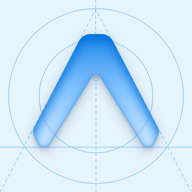
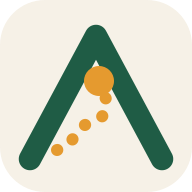
feat(panel): identidad Arriero en el panel, la web del conductor y el seguimiento
Tema con la paleta de marca (neblina, cafetal, carriel, terracota) y
Bricolage Grotesque en títulos; logo en encabezado, logins, web del
conductor y seguimiento (Arriero Despacho / Conductor / Seguimiento).
Mapas con colores de marca y sendero punteado en ámbar. Estados ok/warn/
idle oscurecidos para que el texto blanco cumpla AA. Favicon, íconos PWA,
manifest y metadatos con la marca.

diff --git a/apps/panel/src/components/MapView.tsx b/apps/panel/src/components/MapView.tsx
@@ -8,8 +8,9 @@ import { MapProblem } from './MapProblem';
 
 const STYLE_URL = process.env.NEXT_PUBLIC_MAP_STYLE_URL || 'https://tiles.openfreemap.org/styles/liberty';
 
-const STATUS_COLOR = { available: '#16a34a', busy: '#ea580c', offline: '#9ca3af' } as const;
-const REQUEST_COLOR = { created: '#dc2626', offered: '#d97706', assigned: '#2563eb', picked_up: '#7c3aed' } as const;
+// Colores de marca (docs/MARCA.md); los de estado coinciden con el tema del panel.
+const STATUS_COLOR = { available: '#23824A', busy: '#B8611A', offline: '#6F7873' } as const;
+const REQUEST_COLOR = { created: '#C0392B', offered: '#E59A2F', assigned: '#1F5C45', picked_up: '#9A4421' } as const;
 
 interface Props {
   city: Zone | null;
@@ -34,11 +35,11 @@ function driverPin(d: DriverRow, selected = false): HTMLElement {
   const el = document.createElement('div');
   const size = selected ? 40 : 30;
   el.style.cssText = `width:${size}px;height:${size}px;border-radius:50%;background:#fff;border:3px solid ${STATUS_COLOR[d.status]};
-    outline:${selected ? '3px solid #1d4ed8' : 'none'};outline-offset:2px;z-index:${selected ? 10 : 1};
+    outline:${selected ? '3px solid #E59A2F' : 'none'};outline-offset:2px;z-index:${selected ? 10 : 1};
     display:flex;align-items:center;justify-content:center;font-size:15px;cursor:pointer;box-shadow:0 1px 4px rgba(0,0,0,.3);
     position:relative;opacity:${d.is_stale ? 0.45 : 1}`;
   el.innerHTML = `${VEHICLE_ICON[d.vehicle]}${
-    d.is_stale ? '<span style="position:absolute;top:-6px;right:-6px;background:#ea580c;color:#fff;border-radius:8px;font-size:9px;padding:0 3px">!</span>' : ''
+    d.is_stale ? '<span style="position:absolute;top:-6px;right:-6px;background:#B8611A;color:#fff;border-radius:8px;font-size:9px;padding:0 3px">!</span>' : ''
   }`;
   el.title = `${d.display_name} · ${DRIVER_STATUS_LABEL[d.status]}${d.is_stale ? ' · desactualizado' : ''}`;
   return el;
@@ -52,15 +53,15 @@ function sectorBubble(drivers: DriverRow[], sectorName: string, selected = false
     .map((s) => `<span style="display:inline-flex;align-items:center;gap:2px"><i style="width:8px;height:8px;border-radius:50%;background:${STATUS_COLOR[s]};display:inline-block"></i>${count(s)}</span>`)
     .join(' ');
   const stale = drivers.filter((d) => d.is_stale).length;
-  el.style.cssText = `background:${selected ? '#dbeafe' : '#fff'};border:${selected ? '2px solid #1d4ed8' : '1px solid #d4d4d8'};border-radius:14px;padding:3px 8px;font:600 11px system-ui;
+  el.style.cssText = `background:${selected ? '#FBEBD0' : '#fff'};border:${selected ? '2px solid #E59A2F' : '1px solid #E3DBCB'};border-radius:14px;padding:3px 8px;font:600 11px system-ui;
     display:flex;gap:6px;align-items:center;cursor:pointer;box-shadow:0 1px 4px rgba(0,0,0,.25);white-space:nowrap`;
-  el.innerHTML = `<span style="color:#52525b">${esc(sectorName)}</span>${dots}${stale ? `<span style="color:#ea580c">⚠${stale}</span>` : ''}`;
+  el.innerHTML = `<span style="color:#5B6660">${esc(sectorName)}</span>${dots}${stale ? `<span style="color:#B8611A">⚠${stale}</span>` : ''}`;
   el.title = drivers.map((d) => `${d.display_name} (${DRIVER_STATUS_LABEL[d.status]}${d.is_stale ? ', desactualizado' : ''})`).join('\n');
   return el;
 }
 
 function requestPin(r: RequestRow, selected: boolean): HTMLElement {
-  const color = REQUEST_COLOR[r.status as keyof typeof REQUEST_COLOR] ?? '#52525b';
+  const color = REQUEST_COLOR[r.status as keyof typeof REQUEST_COLOR] ?? '#5B6660';
   const el = document.createElement('div');
   el.style.cssText = `width:${selected ? 22 : 16}px;height:${selected ? 22 : 16}px;background:${color};border:2px solid #fff;
     border-radius:50% 50% 50% 0;transform:rotate(-45deg);cursor:pointer;box-shadow:0 1px 4px rgba(0,0,0,.4)`;
@@ -113,11 +114,11 @@ export function MapView({
       m.on('click', (e) => clickRef.current?.({ lng: e.lngLat.lng, lat: e.lngLat.lat }));
       m.on('load', () => {
         m.addSource('sectors', { type: 'geojson', data: { type: 'FeatureCollection', features: [] } });
-        m.addLayer({ id: 'sectors-fill', type: 'fill', source: 'sectors', paint: { 'fill-color': '#1d4ed8', 'fill-opacity': 0.05 } });
-        m.addLayer({ id: 'sectors-line', type: 'line', source: 'sectors', paint: { 'line-color': '#1d4ed8', 'line-opacity': 0.4, 'line-width': 1 } });
+        m.addLayer({ id: 'sectors-fill', type: 'fill', source: 'sectors', paint: { 'fill-color': '#1F5C45', 'fill-opacity': 0.06 } });
+        m.addLayer({ id: 'sectors-line', type: 'line', source: 'sectors', paint: { 'line-color': '#1F5C45', 'line-opacity': 0.45, 'line-width': 1.2 } });
         m.addSource('draft', { type: 'geojson', data: { type: 'FeatureCollection', features: [] } });
-        m.addLayer({ id: 'draft-line', type: 'line', source: 'draft', paint: { 'line-color': '#ea580c', 'line-width': 2, 'line-dasharray': [2, 1] } });
-        m.addLayer({ id: 'draft-pts', type: 'circle', source: 'draft', paint: { 'circle-radius': 4, 'circle-color': '#ea580c' } });
+        m.addLayer({ id: 'draft-line', type: 'line', source: 'draft', paint: { 'line-color': '#E59A2F', 'line-width': 2.5, 'line-dasharray': [2, 1] } });
+        m.addLayer({ id: 'draft-pts', type: 'circle', source: 'draft', paint: { 'circle-radius': 4, 'circle-color': '#E59A2F' } });
         setReady(true);
       });
       unwatch = watchMap(m, (p) => setProblem((cur) => cur ?? p));

diff --git a/apps/panel/src/components/TrackingMap.tsx b/apps/panel/src/components/TrackingMap.tsx
@@ -19,8 +19,8 @@ function pin(label: string, color: string): HTMLElement {
 
 function driverEl(icon: string): HTMLElement {
   const el = document.createElement('div');
-  el.style.cssText = `width:40px;height:40px;border-radius:50%;background:#fff;border:3px solid #1d4ed8;font-size:20px;
-    display:flex;align-items:center;justify-content:center;box-shadow:0 2px 8px rgba(29,78,216,.45)`;
+  el.style.cssText = `width:40px;height:40px;border-radius:50%;background:#fff;border:3px solid #1F5C45;font-size:20px;
+    display:flex;align-items:center;justify-content:center;box-shadow:0 2px 10px rgba(15,46,35,.4)`;
   el.textContent = icon;
   return el;
 }
@@ -62,7 +62,14 @@ export function TrackingMap({
       const m = new ml.Map({ container: container.current, style: STYLE_URL, center: [start.lng, start.lat], zoom: 14, attributionControl: { compact: true } });
       m.on('load', () => {
         m.addSource('route', { type: 'geojson', data: { type: 'FeatureCollection', features: [] } });
-        m.addLayer({ id: 'route', type: 'line', source: 'route', paint: { 'line-color': '#1d4ed8', 'line-width': 3, 'line-dasharray': [2, 1.5] } });
+        // Sendero punteado en ámbar, como en el logo.
+        m.addLayer({
+          id: 'route',
+          type: 'line',
+          source: 'route',
+          layout: { 'line-cap': 'round' },
+          paint: { 'line-color': '#E59A2F', 'line-width': 5, 'line-dasharray': [0, 2] },
+        });
         setReady(true);
       });
       unwatch = watchMap(m, (p) => setProblem((cur) => cur ?? p));
@@ -91,8 +98,8 @@ export function TrackingMap({
     markers.current.forEach((mk) => mk.remove());
     markers.current = [];
     const add = (el: HTMLElement, p: Pt) => markers.current.push(new ml.Marker({ element: el }).setLngLat([p.lng, p.lat]).addTo(m));
-    if (pickup) add(pin('A', '#16a34a'), pickup);
-    if (dropoff) add(pin('B', '#dc2626'), dropoff);
+    if (pickup) add(pin('A', '#1F5C45'), pickup);
+    if (dropoff) add(pin('B', '#B5532A'), dropoff);
     if (driver) add(driverEl(driverIcon), driver);
 
     const to = target === 'pickup' ? pickup : target === 'dropoff' ? dropoff : null;

diff --git a/apps/panel/src/app/seguimiento/[token]/page.tsx b/apps/panel/src/app/seguimiento/[token]/page.tsx
@@ -3,6 +3,7 @@
 import { SERVICE_LABEL, type ServiceType, VEHICLE_ICON, VEHICLE_LABEL, type VehicleType } from '@despacho/shared';
 import { useParams } from 'next/navigation';
 import { useEffect, useMemo, useState } from 'react';
+import { Logo } from '@/components/Logo';
 import { RatingBox } from '@/components/RatingBox';
 import { TrackingMap } from '@/components/TrackingMap';
 import { cn } from '@/components/ui';
@@ -130,6 +131,10 @@ export default function TrackingPage() {
         {error && <div className="absolute left-3 right-3 top-3 rounded-md bg-orange-50 px-3 py-2 text-sm text-warn shadow">{error}</div>}
       </div>
       <div className="max-h-[55%] overflow-y-auto rounded-t-2xl border-t border-border bg-card p-5 shadow-[0_-4px_16px_rgba(0,0,0,0.06)] lg:max-h-none lg:w-[26rem] lg:shrink-0 lg:rounded-none lg:border-r lg:border-t-0 lg:shadow-none">
+        <div className="mb-3 flex items-center justify-between">
+          <Logo className="text-sm" />
+          <span className="text-xs text-muted-foreground">Seguimiento</span>
+        </div>
         <p className="text-xs font-semibold uppercase text-muted-foreground">
           {SERVICE_LABEL[data.service]} · {data.city}
         </p>
@@ -196,7 +201,7 @@ export default function TrackingPage() {
           )}
         </div>
         <p className="mt-4 text-[11px] text-muted-foreground">
-          {updatedAt && `Actualizado ${hhmm(new Date(updatedAt).toISOString())} · `}Enlace temporal, vence a las {hhmm(data.expires_at)}. La línea del mapa es la distancia en línea recta, no la ruta por calles.
+          {updatedAt && `Actualizado ${hhmm(new Date(updatedAt).toISOString())} · `}Enlace temporal (vence a las {hhmm(data.expires_at)}). La línea del mapa es la distancia en línea recta, no la ruta por calles.
         </p>
       </div>
     </div>

diff --git a/apps/panel/src/components/Logo.tsx b/apps/panel/src/components/Logo.tsx
@@ -1,0 +1,38 @@
+// Logo de Arriero: A-montaña con el sendero hasta el punto de entrega
+// (docs/MARCA.md). `product` agrega el nombre del producto al lado.
+export function Logo({
+  product,
+  tone = 'dark',
+  className = '',
+}: {
+  product?: string;
+  tone?: 'dark' | 'light';
+  className?: string;
+}) {
+  const stroke = tone === 'dark' ? '#1F5C45' : '#F6F1E7';
+  return (
+    <span className={`inline-flex items-center gap-1.5 ${className}`}>
+      <svg viewBox="0 0 64 64" className="h-[1.5em] w-[1.5em] shrink-0" aria-hidden="true">
+        <path d="M8 54 32 10l24 44" fill="none" stroke={stroke} strokeWidth="7" strokeLinecap="round" strokeLinejoin="round" />
+        <path d="M18 51c8-1 5-8 12-10s7-8 3-12" fill="none" stroke="#E59A2F" strokeWidth="3.6" strokeLinecap="round" strokeDasharray="0.1 6.2" />
+        <circle cx="33" cy="26" r="4.6" fill="#E59A2F" />
+      </svg>
+      <span
+        aria-hidden="true"
+        className={`font-display text-[1.2em] font-extrabold tracking-tight ${tone === 'dark' ? 'text-foreground' : 'text-background'}`}
+      >
+        arr
+        <span className="relative">
+          ı<span className="absolute left-1/2 top-[0.1em] h-[0.2em] w-[0.2em] -translate-x-1/2 rounded-full bg-accent" />
+        </span>
+        ero
+      </span>
+      <span className="sr-only">Arriero{product ? ` ${product}` : ''}</span>
+      {product && (
+        <span aria-hidden="true" className="ml-1 rounded-md bg-primary/10 px-1.5 py-0.5 text-[0.7em] font-semibold uppercase tracking-wide text-primary">
+          {product}
+        </span>
+      )}
+    </span>
+  );
+}

diff --git a/apps/panel/src/app/globals.css b/apps/panel/src/app/globals.css
@@ -1,20 +1,38 @@
 @import "tailwindcss";
 
-/* Tokens estilo shadcn/ui. */
+@import "@fontsource-variable/bricolage-grotesque/wght.css";
+
+/* Identidad Arriero (docs/MARCA.md) sobre tokens estilo shadcn/ui.
+   Contraste verificado: texto blanco sobre primary/ok/warn/idle/danger ≥ 4,5:1. */
 @theme {
-  --color-background: #f7f7f8;
-  --color-foreground: #18181b;
+  --color-background: #f6f1e7; /* neblina */
+  --color-foreground: #0f2e23; /* cafetal-900 */
   --color-card: #ffffff;
-  --color-muted: #f1f1f3;
-  --color-muted-foreground: #6b6b74;
-  --color-border: #e3e3e8;
-  --color-primary: #1d4ed8;
+  --color-muted: #efe8da;
+  --color-muted-foreground: #5b6660; /* piedra */
+  --color-border: #e3dbcb;
+  --color-primary: #1f5c45; /* cafetal */
   --color-primary-foreground: #ffffff;
-  --color-danger: #dc2626;
-  --color-ok: #16a34a;
-  --color-warn: #ea580c;
-  --color-idle: #9ca3af;
+  --color-accent: #e59a2f; /* carriel: rutas, foco, selección */
+  --color-accent-soft: #fbebd0;
+  --color-trocha: #9a4421; /* terracota para texto */
+  --color-danger: #c0392b;
+  --color-ok: #23824a; /* disponible */
+  --color-warn: #b8611a; /* ocupado */
+  --color-idle: #6f7873; /* desconectado */
   --font-sans: ui-sans-serif, system-ui, -apple-system, "Segoe UI", Roboto, sans-serif;
+  --font-display: "Bricolage Grotesque Variable", ui-sans-serif, system-ui, sans-serif;
+}
+
+h1,
+h2 {
+  font-family: var(--font-display);
+  letter-spacing: -0.01em;
+}
+
+:focus-visible {
+  outline: 2px solid var(--color-accent);
+  outline-offset: 2px;
 }
 
 html,

diff --git a/apps/panel/src/app/login/page.tsx b/apps/panel/src/app/login/page.tsx
@@ -4,6 +4,7 @@ import { DEMO_PASSWORD, DEMO_STAFF } from '@despacho/shared';
 import Link from 'next/link';
 import { useRouter } from 'next/navigation';
 import { type FormEvent, useEffect, useRef, useState } from 'react';
+import { Logo } from '@/components/Logo';
 import { Button, ErrorText, Field, Input } from '@/components/ui';
 import { useSession } from '@/lib/session';
 
@@ -42,7 +43,9 @@ export default function LoginPage() {
     <div className="flex h-full items-center justify-center p-4">
       <form onSubmit={submit} className="w-full max-w-sm space-y-4 rounded-lg border border-border bg-card p-6 shadow-sm">
         <div>
-          <h1 className="text-lg font-semibold">Despacho</h1>
+          <h1 className="text-xl">
+            <Logo product="Despacho" />
+          </h1>
           <p className="text-sm text-muted-foreground">Entra con tu cuenta de operador o de conductor.</p>
         </div>
         <Field label="Correo">
@@ -76,7 +79,7 @@ export default function LoginPage() {
                     submitRef.current?.focus();
                   }}
                   className={`flex items-center justify-between rounded-md border px-3 py-2 text-left text-sm hover:bg-muted ${
-                    email === a.email ? 'border-primary bg-blue-50' : 'border-border'
+                    email === a.email ? 'border-primary bg-primary/10' : 'border-border'
                   }`}
                 >
                   <span className="font-medium">{a.label}</span>

diff --git a/apps/panel/src/app/conductor/page.tsx b/apps/panel/src/app/conductor/page.tsx
@@ -14,6 +14,7 @@ import { ActiveService } from '@/components/driver/ActiveService';
 import { Consent } from '@/components/driver/Consent';
 import { DriverLogin } from '@/components/driver/DriverLogin';
 import { OfferCard } from '@/components/driver/OfferCard';
+import { Logo } from '@/components/Logo';
 import { Button, cn } from '@/components/ui';
 import { ApiError, driverClient } from '@/lib/api';
 import { LOCATION_SILENCE_MS, flushPending, isLiveRunning, isSecureForGeo, live, startLive, stopLive } from '@/lib/driverLive';
@@ -309,6 +310,7 @@ export default function DriverPage() {
         </div>
       ) : (
         <div className="mx-auto max-w-md space-y-3 p-4 pb-10">
+          <Logo product="Conductor" className="text-sm" />
           <header className="flex items-center justify-between">
             <div>
               <h1 className="text-xl font-bold">{d.display_name}</h1>
@@ -367,7 +369,7 @@ export default function DriverPage() {
                       onClick={() => void patchPresence({ sector_zone_id: z.id, location_mode: 'zone' })}
                       className={cn(
                         'rounded-full border px-3 py-2 text-[15px]',
-                        d.sector_zone_id === z.id ? 'border-primary bg-blue-100' : 'border-border bg-card',
+                        d.sector_zone_id === z.id ? 'border-primary bg-primary/10' : 'border-border bg-card',
                       )}
                     >
                       {z.name}

diff --git a/apps/panel/src/components/driver/DriverLogin.tsx b/apps/panel/src/components/driver/DriverLogin.tsx
@@ -4,6 +4,7 @@ import { DEMO_DRIVERS, DEMO_PASSWORD } from '@despacho/shared';
 import Link from 'next/link';
 import { type FormEvent, useState } from 'react';
 import { api, driverClient } from '@/lib/api';
+import { Logo } from '../Logo';
 import { Button, ErrorText, Field, Input, cn } from '../ui';
 
 const SHOW_DEMO = process.env.NODE_ENV !== 'production' || process.env.NEXT_PUBLIC_DEMO_LOGINS === '1';
@@ -33,7 +34,9 @@ export function DriverLogin({ onLogged }: { onLogged: () => void }) {
   return (
     <form onSubmit={submit} className="mx-auto flex min-h-full max-w-md flex-col justify-center gap-4 p-6">
       <div>
-        <h1 className="text-2xl font-bold">Despacho · Conductor</h1>
+        <h1 className="text-2xl">
+          <Logo product="Conductor" />
+        </h1>
         <p className="text-sm text-muted-foreground">Entra con el correo y la contraseña que te dio el operador.</p>
       </div>
       <Field label="Correo">
@@ -67,7 +70,7 @@ export function DriverLogin({ onLogged }: { onLogged: () => void }) {
               }}
               className={cn(
                 'flex w-full items-center justify-between rounded-lg border px-3 py-3 text-left',
-                email === a.email ? 'border-primary bg-blue-50' : 'border-border bg-card',
+                email === a.email ? 'border-primary bg-primary/10' : 'border-border bg-card',
               )}
             >
               <span className="font-medium">{a.label}</span>

diff --git a/apps/panel/src/app/zonas/page.tsx b/apps/panel/src/app/zonas/page.tsx
@@ -137,10 +137,10 @@ export default function ZonesPage() {
                   <button
                     disabled={!isAdmin}
                     onClick={() => edit(s)}
-                    className={cn('w-full px-3 py-2 text-left text-sm hover:bg-muted disabled:hover:bg-transparent', draft?.id === s.id && 'bg-blue-50')}
+                    className={cn('w-full px-3 py-2 text-left text-sm hover:bg-muted disabled:hover:bg-transparent', draft?.id === s.id && 'bg-primary/10')}
                   >
                     <span className={cn(!s.active && 'line-through opacity-50')}>{s.name}</span>
-                    {s.geom && <Badge className="ml-2 bg-blue-100 text-blue-700">polígono</Badge>}
+                    {s.geom && <Badge className="ml-2 bg-primary/10 text-primary">polígono</Badge>}
                     {s.center_lat == null && <Badge className="ml-2 bg-orange-100 text-orange-700">sin centro</Badge>}
                     {s.aliases.length > 0 && <p className="truncate text-xs text-muted-foreground">{s.aliases.join(', ')}</p>}
                   </button>

diff --git a/apps/panel/src/components/AppShell.tsx b/apps/panel/src/components/AppShell.tsx
@@ -5,6 +5,7 @@ import { usePathname, useRouter } from 'next/navigation';
 import { type ReactNode, useEffect, useState } from 'react';
 import { useRealtime } from '@/lib/realtime';
 import { useSession } from '@/lib/session';
+import { Logo } from './Logo';
 import { cn } from './ui';
 
 const NAV = [
@@ -55,7 +56,9 @@ export function AppShell({ children, actions }: { children: ReactNode; actions?:
             <path d="M3 5h14M3 10h14M3 15h14" stroke="currentColor" strokeWidth="1.8" strokeLinecap="round" />
           </svg>
         </button>
-        <span className="hidden whitespace-nowrap font-semibold sm:inline">Despacho</span>
+        <Link href="/" className="hidden shrink-0 sm:inline-flex" aria-label="Inicio">
+          <Logo product="Despacho" />
+        </Link>
         {cities.length > 1 ? (
           <select
             className="h-8 min-w-0 max-w-[9rem] rounded-md border border-border bg-card px-2 text-sm"

diff --git a/apps/panel/src/components/RequestList.tsx b/apps/panel/src/components/RequestList.tsx
@@ -14,8 +14,8 @@ const FILTERS: { key: string; label: string; statuses: RequestStatus[] }[] = [
 export const STATUS_BADGE: Record<RequestStatus, string> = {
   created: 'bg-red-100 text-red-700',
   offered: 'bg-amber-100 text-amber-800',
-  assigned: 'bg-blue-100 text-blue-700',
-  picked_up: 'bg-violet-100 text-violet-700',
+  assigned: 'bg-primary/10 text-primary',
+  picked_up: 'bg-accent-soft text-trocha',
   completed: 'bg-green-100 text-green-700',
   cancelled: 'bg-zinc-100 text-zinc-600',
 };
@@ -68,7 +68,7 @@ export function RequestList({
                 onClick={() => onSelect(r.id)}
                 className={cn(
                   'w-full border-b border-border px-3 py-2 text-left hover:bg-muted',
-                  selectedId === r.id && 'bg-blue-50',
+                  selectedId === r.id && 'bg-primary/10',
                   late && 'border-l-4 border-l-danger',
                 )}
               >

diff --git a/apps/panel/src/app/conductor/layout.tsx b/apps/panel/src/app/conductor/layout.tsx
@@ -2,13 +2,13 @@ import type { Metadata, Viewport } from 'next';
 import type { ReactNode } from 'react';
 
 export const metadata: Metadata = {
-  title: 'Despacho · Conductor',
+  title: 'Arriero Conductor',
   description: 'Recibe y gestiona tus servicios',
   manifest: '/manifest.webmanifest',
-  appleWebApp: { capable: true, title: 'Despacho', statusBarStyle: 'default' },
+  appleWebApp: { capable: true, title: 'Arriero', statusBarStyle: 'default' },
 };
 
-export const viewport: Viewport = { themeColor: '#1d4ed8', width: 'device-width', initialScale: 1 };
+export const viewport: Viewport = { themeColor: '#1F5C45', width: 'device-width', initialScale: 1 };
 
 export default function DriverLayout({ children }: { children: ReactNode }) {
   return children;
